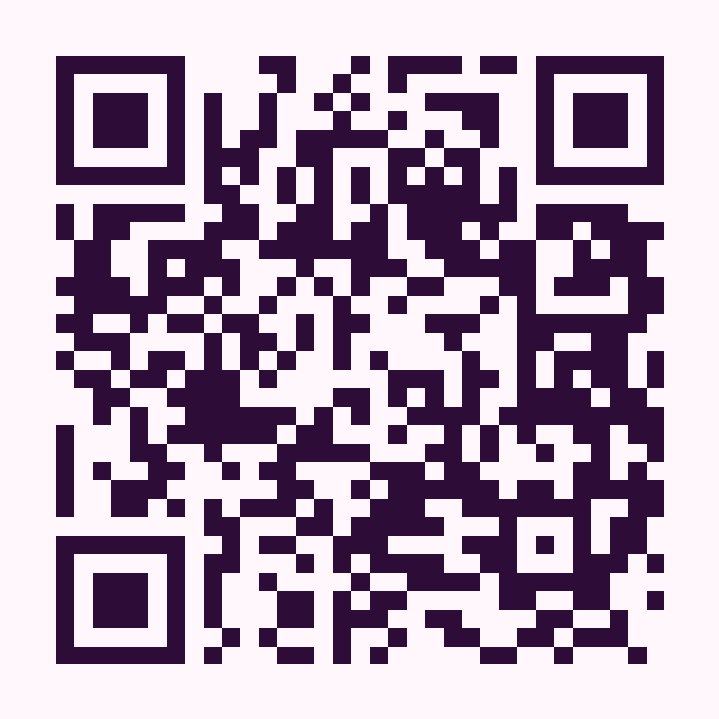
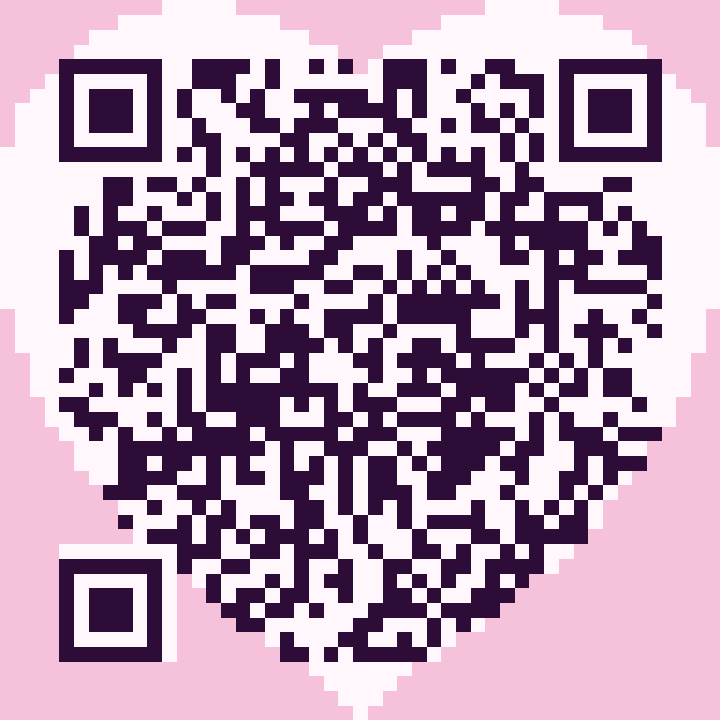
Make the opening QR code heart-shaped

diff --git a/README.md b/README.md
@@ -10,14 +10,14 @@ Website statis untuk menyampaikan permintaan maaf dan kesempatan kedua kepada Lo
 
 ## Konfigurasi URL QR Code
 
-Sebelum menghasilkan QR Code final, atur environment variable:
+QR Code berbentuk hati dibuat dengan tingkat koreksi error tinggi agar tetap mudah dipindai. Sebelum membuat QR Code untuk alamat situs, atur environment variable:
 
 ```bash
 VITE_PUBLIC_URL=https://Shiro-Lui.github.io/for_my_love_louise/
 npm run generate:qr
 ```
 
-Atau edit `public/loise-qr.png` dengan hasil QR final setelah repository GitHub Pages aktif.
+Gambar QR Code tersimpan di `public/loise-qr.png`.
 
 ## Foto galeri
 
